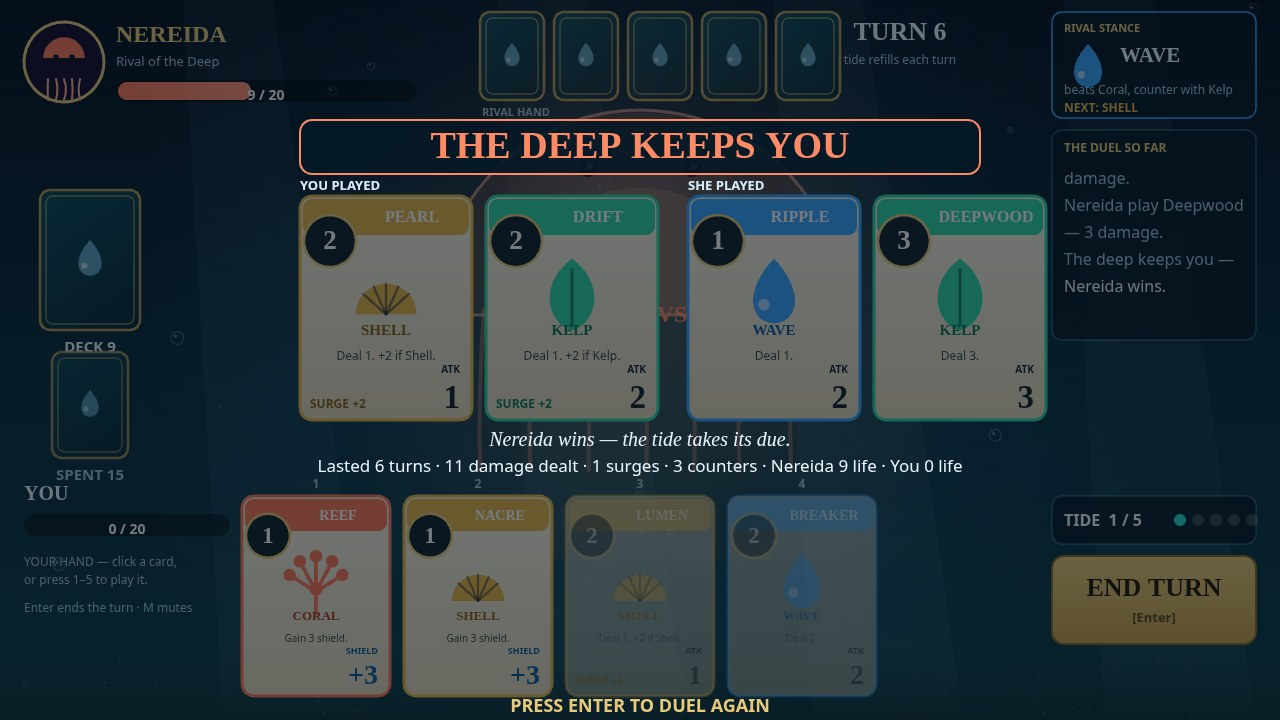
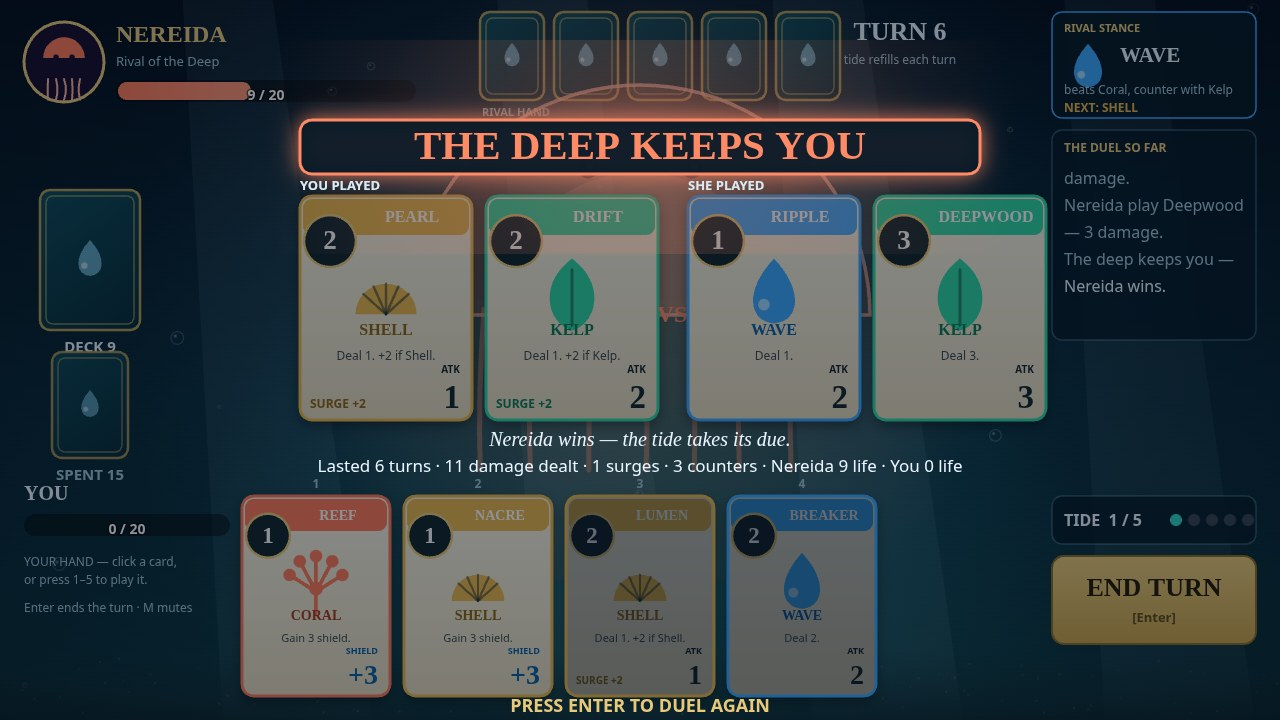
polish r4: hand cards readable (dim veil not alpha), table depth (glow pools + vignette), Nereida bigger/brighter, end screens punchier (lighter veil, ribbon bloom), life-bar text stroke, tide pips fit panel; 4 screenshots re-shot

diff --git a/game/src/render.js b/game/src/render.js
@@ -156,16 +156,27 @@ function paintTable(ctx, world) {
   ctx.fillRect(0, 0, width, height);
 
   // The glow of the deep: a soft teal pool in the middle of the table.
+  // Stronger than r1 (0.16 -> 0.22): the table reads flat and dark at
+  // thumbnail size, and the clash needs a lit stage, not a void.
   const glow = ctx.createRadialGradient(640, 330, 40, 640, 330, 520);
-  glow.addColorStop(0, 'rgba(47, 214, 200, 0.16)');
-  glow.addColorStop(0.6, 'rgba(47, 150, 200, 0.07)');
+  glow.addColorStop(0, 'rgba(47, 214, 200, 0.22)');
+  glow.addColorStop(0.6, 'rgba(47, 150, 200, 0.09)');
   glow.addColorStop(1, 'rgba(47, 150, 200, 0)');
   ctx.fillStyle = glow;
   ctx.fillRect(0, 0, width, height);
 
+  // A second, lower pool of light under the hand row: the hand cards
+  // sit in the darkest part of the table, and a lit floor under them
+  // keeps their paper from sinking into the teal.
+  const handGlow = ctx.createRadialGradient(640, 610, 30, 640, 610, 460);
+  handGlow.addColorStop(0, 'rgba(47, 214, 200, 0.12)');
+  handGlow.addColorStop(1, 'rgba(47, 214, 200, 0)');
+  ctx.fillStyle = handGlow;
+  ctx.fillRect(0, 300, width, height - 300);
+
   // Light rays falling from the surface, swaying slowly on the clock.
   ctx.save();
-  ctx.globalAlpha = 0.05;
+  ctx.globalAlpha = 0.08;
   ctx.fillStyle = '#bfefff';
   for (let i = 0; i < 4; i += 1) {
     const sway = Math.sin(world.time * 0.12 + i * 1.7) * 18;
@@ -209,6 +220,15 @@ function paintTable(ctx, world) {
     ctx.fillStyle = `rgba(232, 201, 122, ${0.05 + hash2(i, 17) * 0.12})`;
     ctx.fillRect(x, y, 2, 2);
   }
+
+  // A soft vignette: the corners fall away so the eye stays on the
+  // clash in the middle and the hand along the bottom. The centre
+  // stays untouched — the glow pools above already light it.
+  const vig = ctx.createRadialGradient(640, 360, 260, 640, 360, 760);
+  vig.addColorStop(0, 'rgba(2, 8, 16, 0)');
+  vig.addColorStop(1, 'rgba(2, 8, 16, 0.38)');
+  ctx.fillStyle = vig;
+  ctx.fillRect(0, 0, width, height);
 }
 
 // ---------------------------------------------------------------- cards
@@ -229,15 +249,24 @@ export function drawCardFace(ctx, card, x, y, w, h, opts = {}) {
     ctx.scale(s, s);
     ctx.translate(-cx, -(y + h / 2));
   }
-  if (opts.dim) ctx.globalAlpha = (opts.dim ? 0.5 : 1) * (pop < 1 ? pop : 1);
+  // No globalAlpha dim any more: at 0.5 the paper went grey-green over
+  // the teal table and the glyphs died (cover hand, tide 0/4). An
+  // unaffordable card now paints at full strength and takes a dark
+  // veil at the end instead — the face stays readable, the affordance
+  // stays visible as a darker card.
 
-  // Paper.
+  // Paper, with a soft drop shadow so the card lifts off the table.
   const paper = ctx.createLinearGradient(x, y, x, y + h);
   paper.addColorStop(0, PAPER);
   paper.addColorStop(1, PAPER_EDGE);
   rr(ctx, x, y, w, h, 12);
+  ctx.save();
+  ctx.shadowColor = 'rgba(0, 0, 0, 0.45)';
+  ctx.shadowBlur = 14;
+  ctx.shadowOffsetY = 5;
   ctx.fillStyle = paper;
   ctx.fill();
+  ctx.restore();
   ctx.lineWidth = 3;
   ctx.strokeStyle = opts.selected ? GOLD : suit.color;
   ctx.stroke();
@@ -271,11 +300,11 @@ export function drawCardFace(ctx, card, x, y, w, h, opts = {}) {
   // The name sits below it with a clear gap, and the rules line below
   // that, clear of the big number's caption at the bottom.
   drawSuitGlyph(ctx, card.suit, cx, y + h * 0.44, Math.round(w * 0.21), suit.color);
-  text(ctx, suit.name.toUpperCase(), cx, y + h * 0.62, `bold ${Math.round(w * 0.085)}px Georgia, serif`, suit.dark, 'center');
+  text(ctx, suit.name.toUpperCase(), cx, y + h * 0.62, `bold ${Math.round(w * 0.095)}px Georgia, serif`, suit.dark, 'center');
 
   // One line of rules, never a paragraph. It sits clear of the big
   // number and its caption below it.
-  text(ctx, card.text, cx, y + h * 0.73, `${Math.round(w * 0.068)}px system-ui, sans-serif`, '#3a4a52', 'center');
+  text(ctx, card.text, cx, y + h * 0.73, `${Math.round(w * 0.072)}px system-ui, sans-serif`, '#3a4a52', 'center');
 
   // The big number: power for a strike, shield for a guard.
   if (card.kind === 'guard') {
@@ -289,6 +318,20 @@ export function drawCardFace(ctx, card, x, y, w, h, opts = {}) {
   // Surge cards wear their payoff on their face.
   if (card.kind === 'surge') {
     text(ctx, 'SURGE +2', x + 10, y + h - 12, `bold ${Math.round(w * 0.07)}px system-ui, sans-serif`, suit.dark, 'left');
+  }
+
+  // The unaffordable veil: a dark wash over the finished face. The
+  // glyph, name and numbers were painted at full strength underneath,
+  // so they stay legible — the card reads "not playable now", not
+  // "switched off".
+  if (opts.dim) {
+    rr(ctx, x, y, w, h, 12);
+    ctx.fillStyle = 'rgba(6, 20, 32, 0.30)';
+    ctx.fill();
+    rr(ctx, x, y, w, h, 12);
+    ctx.lineWidth = 3;
+    ctx.strokeStyle = suit.color;
+    ctx.stroke();
   }
   ctx.restore();
 }
@@ -339,7 +382,20 @@ function drawLifeBar(ctx, x, y, w, life, max, shield, fillA, fillB) {
     ctx.fillStyle = grad;
     ctx.fill();
   }
-  text(ctx, `${life} / ${max}`, x + w / 2 - (shield > 0 ? 24 : 0), y + 16, 'bold 14px system-ui, sans-serif', '#ffffff', 'center', 'middle');
+  // A dark stroke under the life text: at low life the text straddles
+  // the fill's edge (white on red on one side, white on dark on the
+  // other) and the "9 / 20" read half-clipped in the loss shot. The
+  // stroke keeps it legible over both.
+  ctx.save();
+  ctx.font = 'bold 14px system-ui, sans-serif';
+  ctx.textAlign = 'center';
+  ctx.textBaseline = 'middle';
+  ctx.lineWidth = 3;
+  ctx.strokeStyle = 'rgba(0, 0, 0, 0.55)';
+  ctx.strokeText(`${life} / ${max}`, x + w / 2 - (shield > 0 ? 24 : 0), y + 16);
+  ctx.fillStyle = '#ffffff';
+  ctx.fillText(`${life} / ${max}`, x + w / 2 - (shield > 0 ? 24 : 0), y + 16);
+  ctx.restore();
   // Shield, right-aligned inside the bar, so it can never run over the
   // next card or pile beside the bar.
   if (shield > 0) {
@@ -439,49 +495,53 @@ function drawHeader(ctx, world) {
 function drawNereidaFigure(ctx, world) {
   const cx = 640;
   const domeY = 315;
-  const r = 205;
+  const r = 230;
   // Warm halo behind the whole clash, so the figure reads as one glow.
-  // Alpha ~2x the r1 values: the dome was a rumour at thumbnail size.
-  const halo = ctx.createRadialGradient(cx, 310, 30, cx, 310, 340);
-  halo.addColorStop(0, 'rgba(255, 122, 89, 0.20)');
-  halo.addColorStop(0.6, 'rgba(255, 122, 89, 0.08)');
+  // Alpha up again from r3 (0.20 -> 0.26): the dome was visible but
+  // still a rumour behind the cards at thumbnail size, and the user
+  // calls the game ugly — the rival has to OWN the middle of the table.
+  const halo = ctx.createRadialGradient(cx, 310, 30, cx, 310, 360);
+  halo.addColorStop(0, 'rgba(255, 122, 89, 0.26)');
+  halo.addColorStop(0.6, 'rgba(255, 122, 89, 0.11)');
   halo.addColorStop(1, 'rgba(255, 122, 89, 0)');
   ctx.fillStyle = halo;
-  ctx.fillRect(cx - 340, 0, 680, 560);
-  // The dome: a half-disc rising above the clash row.
+  ctx.fillRect(cx - 360, 0, 720, 580);
+  // The dome: a half-disc rising above the clash row. Bigger (205 ->
+  // 230) so its cap clears the banner and its rim frames the clash.
   const dome = ctx.createRadialGradient(cx, 190, 20, cx, 240, r);
-  dome.addColorStop(0, 'rgba(255, 170, 140, 0.30)');
-  dome.addColorStop(0.7, 'rgba(255, 122, 89, 0.18)');
-  dome.addColorStop(1, 'rgba(255, 122, 89, 0.08)');
+  dome.addColorStop(0, 'rgba(255, 170, 140, 0.36)');
+  dome.addColorStop(0.7, 'rgba(255, 122, 89, 0.22)');
+  dome.addColorStop(1, 'rgba(255, 122, 89, 0.10)');
   ctx.beginPath();
   ctx.arc(cx, domeY, r, Math.PI, 0);
   ctx.closePath();
   ctx.fillStyle = dome;
   ctx.fill();
-  ctx.lineWidth = 3;
-  ctx.strokeStyle = 'rgba(255, 181, 158, 0.60)';
+  ctx.lineWidth = 3.5;
+  ctx.strokeStyle = 'rgba(255, 181, 158, 0.75)';
   ctx.stroke();
   // Inner dome, a second shell of light.
   ctx.beginPath();
   ctx.arc(cx, domeY, r * 0.62, Math.PI, 0);
   ctx.closePath();
-  ctx.fillStyle = 'rgba(255, 190, 160, 0.18)';
+  ctx.fillStyle = 'rgba(255, 190, 160, 0.22)';
   ctx.fill();
   // Her eyes on the dome cap, above the cards: she is watching the duel.
-  // Bigger and brighter than r1: dark discs 7 -> 9, gold glints 2 -> 3.5.
-  ctx.fillStyle = 'rgba(22, 13, 46, 0.80)';
+  // Bigger again (9 -> 10.5 discs, 3.5 -> 4 glints) so they survive the
+  // thumbnail shrink.
+  ctx.fillStyle = 'rgba(22, 13, 46, 0.85)';
   ctx.beginPath();
-  ctx.arc(cx - 52, 168, 9, 0, Math.PI * 2);
-  ctx.arc(cx + 52, 168, 9, 0, Math.PI * 2);
+  ctx.arc(cx - 52, 168, 10.5, 0, Math.PI * 2);
+  ctx.arc(cx + 52, 168, 10.5, 0, Math.PI * 2);
   ctx.fill();
   ctx.fillStyle = 'rgba(232, 201, 122, 1.0)';
   ctx.beginPath();
-  ctx.arc(cx - 50, 166, 3.5, 0, Math.PI * 2);
-  ctx.arc(cx + 54, 166, 3.5, 0, Math.PI * 2);
+  ctx.arc(cx - 50, 166, 4, 0, Math.PI * 2);
+  ctx.arc(cx + 54, 166, 4, 0, Math.PI * 2);
   ctx.fill();
   // Tentacles trailing behind the cards, swaying slowly on the clock.
-  ctx.strokeStyle = 'rgba(255, 150, 120, 0.36)';
-  ctx.lineWidth = 4;
+  ctx.strokeStyle = 'rgba(255, 150, 120, 0.45)';
+  ctx.lineWidth = 5;
   ctx.lineCap = 'round';
   for (let i = -3; i <= 3; i += 1) {
     const tx = cx + i * 52;
@@ -645,9 +705,14 @@ function drawBottom(ctx, world) {
   ctx.strokeStyle = PANEL_LINE;
   ctx.stroke();
   text(ctx, `TIDE  ${player.tide} / ${player.tideMax}`, TIDE_RECT.x + 12, TIDE_RECT.y + 30, 'bold 16px system-ui, sans-serif', TEXT);
+  // Pips share the panel with the label: at tideMax 6 the old fixed
+  // 18 px spacing ran the last pip past the panel's edge (win shot).
+  // Spacing tightens when the tide grows, and the row starts a touch
+  // further left so the last pip always lands inside the panel.
+  const pipGap = player.tideMax > 5 ? 13 : 18;
   for (let i = 0; i < player.tideMax; i += 1) {
     ctx.beginPath();
-    ctx.arc(TIDE_RECT.x + 128 + i * 18, TIDE_RECT.y + 24, 6, 0, Math.PI * 2);
+    ctx.arc(TIDE_RECT.x + 124 + i * pipGap, TIDE_RECT.y + 24, 6, 0, Math.PI * 2);
     ctx.fillStyle = i < player.tide ? '#2fd6c8' : 'rgba(255,255,255,0.18)';
     ctx.fill();
   }
@@ -710,9 +775,10 @@ function drawTitle(ctx, world) {
 }
 
 function drawEndScreen(ctx, world, won) {
-  // A lighter veil than before (0.55, was 0.68): the clash cards are
-  // the evidence of the duel and must stay readable under it.
-  ctx.fillStyle = 'rgba(3, 12, 22, 0.55)';
+  // A lighter veil than before (0.45, was 0.55): the clash cards are
+  // the evidence of the duel and must stay readable under it — the
+  // loss screen especially read as a grey wash in r3.
+  ctx.fillStyle = 'rgba(3, 12, 22, 0.45)';
   ctx.fillRect(0, 0, FIELD.width, FIELD.height);
   const title = won ? 'THE TIDE IS YOURS' : 'THE DEEP KEEPS YOU';
   const color = won ? GOLD : CORAL_RED;
@@ -727,13 +793,24 @@ function drawEndScreen(ctx, world, won) {
   const rw = 680;
   const ry = 120;
   const rh = 54;
+  // A coloured bloom behind the ribbon so the headline lands: gold
+  // for the win, deep coral for the loss.
+  const bloom = ctx.createRadialGradient(640, ry + rh / 2, 20, 640, ry + rh / 2, 380);
+  bloom.addColorStop(0, won ? 'rgba(232, 201, 122, 0.20)' : 'rgba(255, 138, 102, 0.20)');
+  bloom.addColorStop(1, won ? 'rgba(232, 201, 122, 0)' : 'rgba(255, 138, 102, 0)');
+  ctx.fillStyle = bloom;
+  ctx.fillRect(rx - 120, ry - 80, rw + 240, rh + 160);
   rr(ctx, rx, ry, rw, rh, 12);
-  ctx.fillStyle = 'rgba(5, 24, 38, 0.88)';
+  ctx.save();
+  ctx.shadowColor = color;
+  ctx.shadowBlur = 22;
+  ctx.fillStyle = 'rgba(5, 24, 38, 0.94)';
   ctx.fill();
-  ctx.lineWidth = 2;
+  ctx.restore();
+  ctx.lineWidth = 3;
   ctx.strokeStyle = color;
   ctx.stroke();
-  text(ctx, title, 640, ry + rh / 2 + 1, 'bold 38px Georgia, serif', color, 'center', 'middle');
+  text(ctx, title, 640, ry + rh / 2 + 1, 'bold 41px Georgia, serif', color, 'center', 'middle');
   // Re-paint the clash labels AFTER the veil and ribbon, at full
   // brightness: under the veil they came out dim, and at baseline 186
   // the ribbon's bottom edge clipped their tops. Same baseline (190)

diff --git a/build-log-polish-r4.md b/build-log-polish-r4.md
@@ -1,0 +1,110 @@
+# Build log — visual polish round (r3 → r4), TIDEGLASS DUEL
+
+Competition: **best-card-game-20261122-1826**. Polish bedah visual saja,
+23 Nov 2026 ~11:30–11:55 WIB. Perintah user: game "jelek", "perbaiki
+sekali lagi". SATU ronde, visual only — tidak ada redesign, tidak ada
+perubahan mekanik/aturan/seed. No submit — commit repo saja, submit
+tetap wewenang koordinator/user. Timebox keras: lapor kembali 12:05 WIB.
+
+## Perubahan per file
+
+### `game/src/render.js` saja (2 pesan edit: meja+kartu, lalu figur+end screen)
+1. **Kartu tangan terbaca** (`drawCardFace`): akar masalahnya
+   `globalAlpha 0.5` untuk kartu tak-terjangkau — di cover (tide 0/4)
+   SEMUA kartu tangan kena, kertas jadi abu-hijau di atas meja teal
+   dan glyph nyaris hilang. Sekarang kartu dilukis full-strength lalu
+   kena veil gelap `rgba(6,20,32,0.30)` di akhir — muka kartu tetap
+   terbaca (nama, glyph, aturan, ATK), affordance tetap kelihatan
+   sebagai kartu yang lebih gelap. Plus drop shadow lembut di kertas
+   (blur 14, offsetY 5) supaya kartu terangkat dari meja, dan font
+   nama suit 0.085→0.095w, aturan 0.068→0.072w.
+2. **Kedalaman meja** (`paintTable`): glow tengah 0.16→0.22,
+   pool cahaya kedua di bawah baris tangan (0.12), sinar 0.05→0.08,
+   vignette lembut di tepi (0→0.38) supaya mata ke tengah meja.
+3. **Figur Nereida lebih menonjol** (`drawNereidaFigure`): kubah
+   r 205→230 (puncaknya kini membersihkan banner dan membingkai
+   clash), halo 0.20→0.26, kubah 0.30→0.36, garis kubah 0.60→0.75
+   (lebar 3→3.5), kubah dalam 0.18→0.22, mata cakram 9→10.5
+   (kilau 3.5→4), tentakel 0.36→0.45 (lebar 4→5). Tetap di layer
+   belakang: kartu kertas opaque melukis di atasnya.
+4. **Punch win/loss** (`drawEndScreen`): veil 0.55→0.45 (kartu clash
+   di loss tidak lagi abu-abu), bloom warna di belakang pita (emas
+   win / koral loss, 0.20), pita fill 0.88→0.94 + border 2→3 +
+   headline 38→41 px + glow shadow 22. Label YOU/SHE PLAYED tetap
+   dilukis ulang pasca-veil seperti r3.
+5. **Life bar** (`drawLifeBar`): teks life kini ber-stroke gelap
+   (3 px, 0.55) — di loss, "9 / 20" sebelumnya terpotong di tepi
+   fill merah; sekarang terbaca penuh di atas fill maupun track.
+6. **Pip tide** (`drawBottom`): spacing pip adaptif (18 px, atau
+   13 px saat tideMax 6) + start 124 — pip ke-6 di win shot tidak
+   lagi meluber melewati tepi panel (cacat pra-ada sejak r1).
+
+### File yang TIDAK disentuh
+`shots.js` (seed tetap: play 542, loss 14, win/start 1), `shots.json`,
+`vendor/makefun-game.ts`, `main.ts`, `serve.ts`, `README.md` (3 badge +
+About utuh), `LICENSE`, `config.js`, `state.js`, `deck.js`, `rival.js`,
+dan semua modul game lain. Tidak ada file di luar entry dir kecuali
+scratch `/tmp` (validator + shoot + commit script, log serve).
+
+## Bukti visual (dilihat langsung dari 4 JPG hasil re-shoot)
+- (a) Cover 1-play: tangan DRIFT / LUMEN / BRANCH / SWELL kini
+  TERBACA PENUH — nama, glyph, aturan, ATK, SURGE +2; kertas
+  putih-krem, bukan abu-hijau. Kubah Nereida besar + terang di
+  belakang clash, 2 mata kelihatan, 7 tentakel di celah + bawah
+  kartu. Banner "COUNTER x2 — Wave drowns Coral!" tetap terbaca.
+- (b) Loss 3-loss: pita "THE DEEP KEEPS YOU" kini nge-punch dengan
+  bloom koral; kartu clash PEARL / DRIFT / RIPPLE / DEEPWOOD
+  terang dan terbaca; tangan REEF / NACRE terbaca, LUMEN /
+  BREAKER (tak-terjangkau) lebih redup tapi glyph + nilai tetap
+  kelihatan; "9 / 20" utuh.
+- (c) Win 4-win: pita "THE TIDE IS YOURS" bloom emas; pip TIDE
+  3/6 kini SEMUA di dalam panel (dulu pip ke-6 meluber).
+- (d) Title 2-start: tidak disentuh langsung, hanya ikut berubah
+  lewat glow/vignette meja di balik veil — sinar sedikit lebih
+  kelihatan, kartu sampel dapat drop shadow; tidak ada yang rusak.
+  Tepi title tetap gelap (pra-ada, di luar brief ronde ini).
+
+## Validasi (validator r4 `/tmp/validate-card-r4.mjs`, ditulis ulang —
+validator r1 hilang dari /tmp; dijalankan penuh)
+
+- `node --check` 10 file game JS: PASS.
+- Autopilot seeds 1–20: **smart 17W/3L avg 5,9 turn**,
+  **reckless 2W/18L avg 5,3 turn** — IDENTIK dengan baseline r1–r3;
+  mekanik tidak bergeser.
+- Live Chromium (Playwright 1255, keyboard Enter/1/Enter):
+  **0 console error, 0 exception, 0 external request**; status
+  live "The duel begins — your move, tidecaller."
+- `grep game/` http(s)/fetch/WebSocket: clean.
+- `main.ts` 2× ke 2 dir scratch: output byte-identical. Dossier
+  **765.716 byte** (< 1,5 MiB), schema `makefun/dossier/v1`,
+  4 images.
+- Screenshot 2× shoot: sha256 identik antar run.
+
+## Screenshot baru (1280×720 JPEG q88, deterministik 2×)
+
+| File | Bytes | sha256 |
+| --- | --- | --- |
[4 lines of base64/hex data omitted]
+
+Semua < 256 KiB. `2-start.jpg` sha-nya BERUBAH dari r3 (bukan
+karena title disentuh — meja di balik veil ikut terang).
+
+## Catatan untuk koordinator
+
+- Serve `node serve.ts --port 8903` dari validator dimatikan di
+  akhir run (kill process group); cek port bila perlu.
+- Estimasi JUJUR: visual membaik nyata di 3 titik yang diminta
+  user (tangan cover, figur, punch end screen) — tapi ini tetap
+  polish, bukan lompatan kualitas: satu rival tanpa campaign,
+  title gelap di tepi, dan figur end screen tetap tertutup pita
+  (mata). Goldfish r3 sentral ~90 / top-50 ~38% — ronde ini
+  tidak mengubah depth/scope, jadi jangan harapkan revisi
+  estimasi besar; paling banter sentral turun sedikit karena
+  cover + end screen lebih terbaca. Angka pasti wewenang Goldfish,
+  bukan builder.
+- Skill: `makefun-transcript-gate` (file-tool-only, ≥2 pesan per
+  file yang diubah: render.js 2 pesan edit; build log ini via
+  file-write tool).
